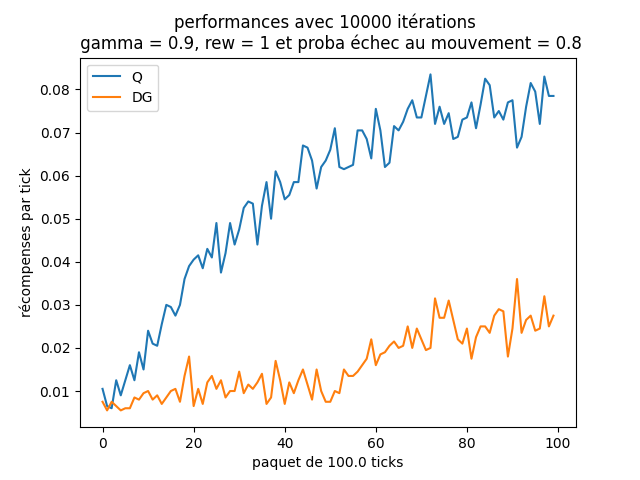
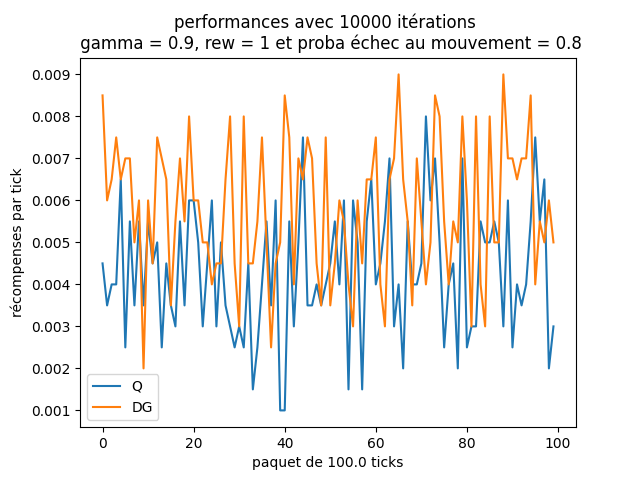
allGoalUpdate et relaxation ajouté, mais ça marche pas (ajout de réflexions)

Changed region(s): [[0.0, 0.125, 0.875, 0.875], [0.1875, 0.125, 0.25, 0.1562]]

diff --git a/main.py b/main.py
@@ -188,28 +188,45 @@ def relaxation() :
   global DGTable
   for s1x in range(gridSize[0]) :
     for s1y in range(gridSize[1]) :
+      s1 = (s1x, s1y)
       for s2x in range(gridSize[0]):
         for s2y in range(gridSize[1]):
+          s2 = (s2x, s2y)
           for six in range(gridSize[0]):
             for siy in range(gridSize[1]):
-              for a in A :
-                sem.acquire()
+              si = (six, siy)
+              if s1 != s2 and s1!= si and si != s2 :
+                for a in A :
+                  sem.acquire()
 
-                temp = DGTable.get(((s1x,s1y), a, (s2x,s2y)), baseDGValue)
+                  temp = DGTable.get((s1, a, s2), baseDGValue)
+                  """
+                  DGTable[(s1, a, s2)] = min(temp,
+                                                           DGTable.get((s1, a, si), baseDGValue)
+                                                           + DGTable.get((si, minDG(si, s2), s2), baseDGValue)
+                                                           )
+                  """
+                  if(DGTable.get((s1, a, si), baseDGValue) + DGTable.get((si, minDG(si, s2), s2), baseDGValue) < temp) :
+                    #TODO : ça chie ici
+                    #print("la relaxation trouve des trucs !")
 
-                """
-                DGTable[((s1x,s1y), a, (s2x,s2y))] = min(temp,
-                                                         DGTable.get(((s1x, s1y), a, (six, siy)), baseDGValue)
-                                                         + DGTable.get(((six, siy), minDG((six, siy), (s2x, s2y)), (s2x, s2y)), baseDGValue)
-                                                         )
-                """
+                    #alors on dirait que sa formule de relaxation est pas très bien
+                    #explication :
+                    #DG(s1, a, s2) = min(DG(s1, a, s2), DG(s1, a, si) + min DG(si, a', s2))
+                    #problème : ils sont initialisés à 0 par défaut, donc la relaxation est contreproductice, il faudrait les initiliser en fonction de leur distance ?
+                    #c'est pas compliqué mais est-ce que c'est ce qu'elle a fait ?
 
-                if(DGTable.get(((s1x, s1y), a, (six, siy)), baseDGValue) + DGTable.get(((six, siy), minDG((six, siy), (s2x, s2y)), (s2x, s2y)), baseDGValue) < temp) :
-                  #print("la relaxation trouve des trucs !") #la relaxation marche on dirait bien
-                  DGTable[((s1x, s1y), a, (s2x, s2y))] = DGTable.get(((s1x, s1y), a, (six, siy)), baseDGValue)+ DGTable.get(((six, siy), minDG((six, siy), (s2x, s2y)), (s2x, s2y)),baseDGValue)
+                    #on est censé apprendre, je pense qu'il ne faut pas utiliser une heuristique pour initialiser la grille
+
+                    #dans ce cas on ne devrait regarder que les valeurs présentes dans la table et ne pas initiliser
+
+                    print(str(s1) + " " + str(si) + " " +str(s2))
+                    print(str(DGTable.get((s1, a, si), baseDGValue) + DGTable.get((si, minDG(si, s2), s2), baseDGValue)) + "  <   " +  str(temp))
+
+                    DGTable[(s1, a, s2)] = DGTable.get((s1, a, si), baseDGValue)+ DGTable.get((si, minDG(si, s2), s2),baseDGValue)
 
 
-                sem.release()
+                  sem.release()
 
   #une fois fini, on recommence
   print("fin de relaxation")
@@ -336,7 +353,7 @@ if __name__ == '__main__':
 
   print("--------------------------- DG -------------------------")
   #dataDG = main("DG", nrun, nticks, rewVal, agentBouge=True, rewardBouge=False, useAllGoalUpdate=False, useRelaxation=False)
-  dataDG = main("DG", nrun, nticks, rewVal, agentBouge=True, rewardBouge=True, useAllGoalUpdate=True, useRelaxation=True) #test de la relaxation
+  dataDG = main("DG", nrun, nticks, rewVal, agentBouge=True, rewardBouge=True, useAllGoalUpdate=False, useRelaxation=True) #test de la relaxation
 
   """
   plt.hist([dataQ, dataDG], bins=100, histtype = 'step', label = ['Q', 'DG'])
